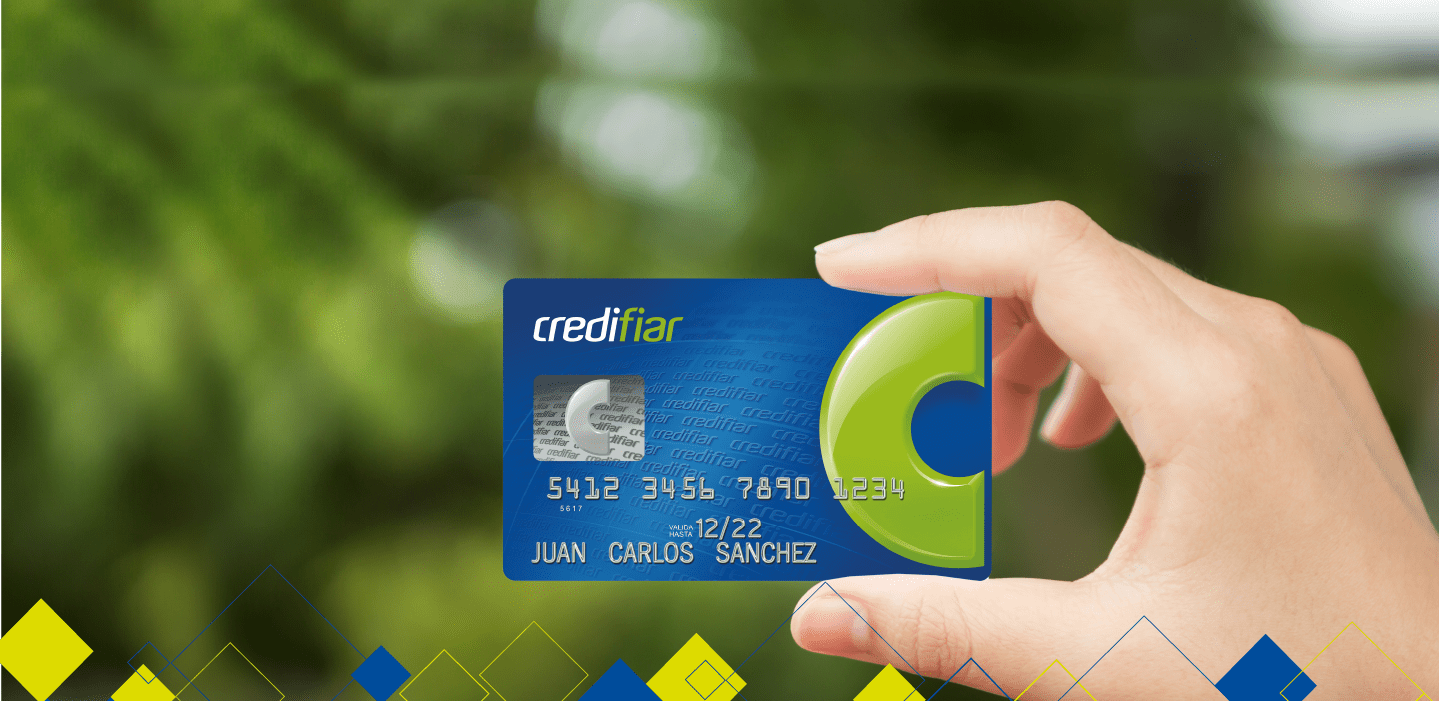
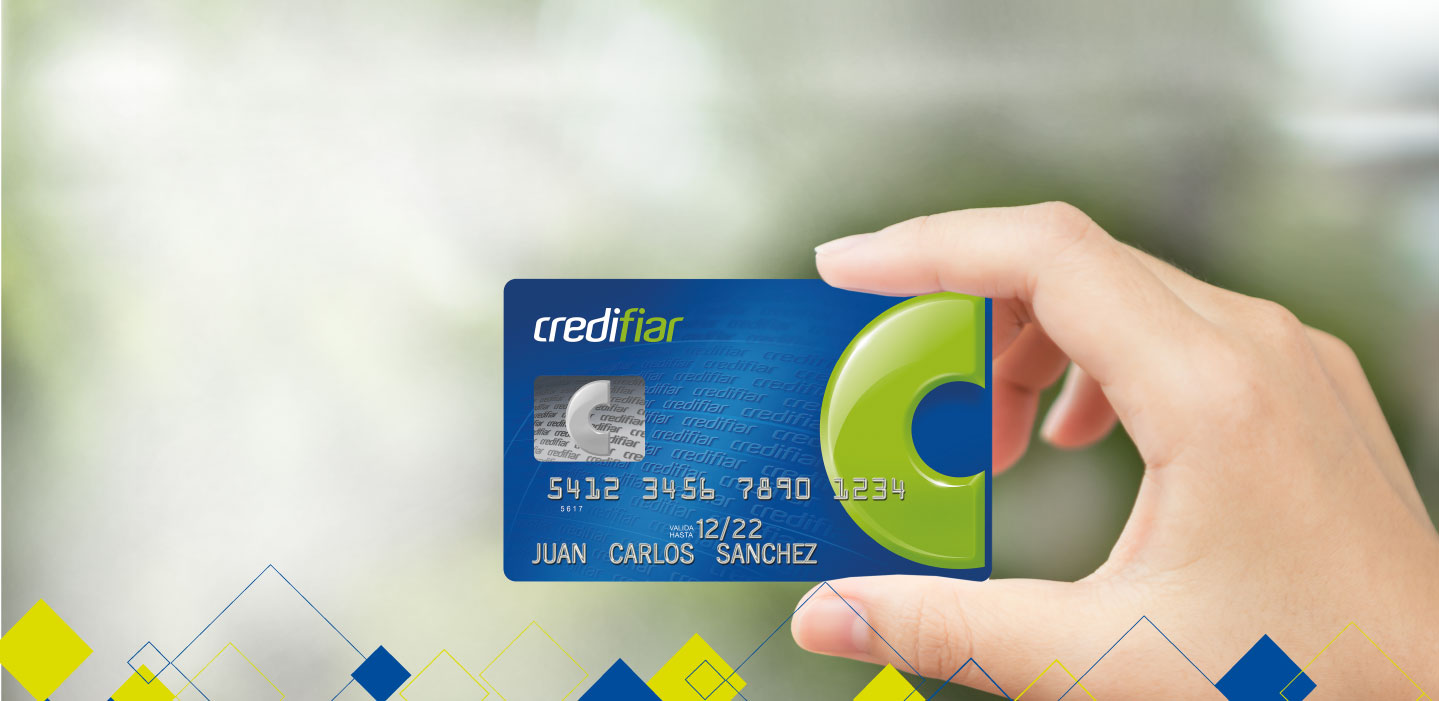
index al 90% verificar los modals y colocar las img promo faltantes y checkear textos vs docu

diff --git a/css/estilos.css b/css/estilos.css
@@ -210,21 +210,26 @@ body{
 .carousel-caption {
 	width: auto;
 	z-index: 10; 
-	color: #1B52A2; 
-	text-align: center;
+	color: #1B52A2;
 	top: 20%;
 	left: 10%;
-	bottom: auto; 
+	/*	text-align: center;
+	 bottom: auto;  */
+	text-align: start;
+	bottom: 150px;
 }
+
 
 .sintexto{
 	width: auto;
 	z-index: 10; 
 	color: #1B52A2; 
-	text-align: center;
 	top: 60%;
 	left: 10%;
-	bottom: auto; 
+	text-align: start;
+	bottom: 150px;
+	/* text-align: center;
+	bottom: auto;  */
 }
 
 /* .btn-carousel-caption */
@@ -235,6 +240,7 @@ body{
 	color: #1B52A2;
 	background-color: rgb(227, 252, 0);
 }
+
 
 .text-carousel-caption{
 	font-size: 1.7rem;
@@ -256,7 +262,7 @@ body{
 }
 .promociones .galeriaPromociones .contenedor-imagen{
 	margin-bottom: 40px;
-	max-height: 180px;
+	max-height: 300px;
 	overflow: hidden;
 }
 .promociones .galeriaPromociones .contenedor-imagen a{
@@ -267,11 +273,6 @@ body{
 	opacity: .3;
 }
 
-.carousel-caption{
-	/* color:  #1B52A2; */
-	text-align: start;
-	bottom: 150px;
-}
 
 .link-slider-index{
 	text-decoration: none;
@@ -282,6 +283,9 @@ body{
 	font-size: 3rem;
 }
 
+.subtitulo-slider{
+	font-size: 2.4rem;
+}
 /* VENTAJAS */
 
 .fondo-ventajas{
@@ -304,17 +308,17 @@ body{
 
 .card-title-ubicaciones{
 	padding: 0 0;
-	text-align: center;
-	color: black;
+	text-align: start;
+	color:#1B52A2 ;
 	font-family: 'credifiar';
-	font-weight: 300;
+	/* font-weight: 300; */
 }
 .card-text-ubicaciones{
 	padding: 0 0;
-	text-align: center;
-	color: black;
+	text-align: start;
+	color:#1B52A2 ;
 	font-family: 'credifiar';
-	font-weight: 300;
+	/* font-weight: 300; */
 }
 
 /* .tituloComercios{
@@ -642,13 +646,56 @@ background: url(../img/ingreso_cliente.jpg) no-repeat center;
 		color: #1B52A2;
 	}
 
-	/* .titulo-slider{
-		font-size: 1rem;
+	.titulo-slider{
+		font-size: 1.5rem;
+	}
+	.subtitulo-slider{
+		font-size: 1.5rem;
 	}
 
 	.carousel-caption{
-		/* color:  #1B52A2; 
+		width: auto;
+		z-index: 10; 
+		color: #1B52A2; 
 		text-align: start;
-		bottom: 50px;
-	} */
+		top: 0;
+		left: 0;
+		bottom: auto; 
+	}
+
+	.text-carousel-caption{
+		font-size: 1rem;
+		margin: 0%;
+	}
+
+	.sintexto{
+		width: auto;
+		z-index: 10; 
+		color: #1B52A2; 
+		top: 80%;
+		left: 5%;
+		text-align: start;
+		/* bottom: 150px; */
+		/* text-align: center; */
+		bottom: auto;
+	}
+
+	.card-title-ubicaciones{
+		padding: 0 0;
+		text-align: start;
+		color:#1B52A2 ;
+		font-family: 'credifiar';
+		font-weight: 900;
+	}
+	.card-text-ubicaciones{
+		padding: 0 0;
+		text-align: start;
+		color:#1B52A2 ;
+		font-family: 'credifiar';
+		font-weight: 900;
+	}
+
+	.card-border{
+		border: 3px solid;
+	}
 }

diff --git a/Vistas/index.php b/Vistas/index.php
@@ -6,10 +6,10 @@
 			<div class="carousel-inner alto p-0 m-0">	
 
 				<div class="carousel-item  active ">
-					<img src="../img/index/6.png" class="img-fluid d-sm-none"  alt="tarjeta-credifiar">
-					<img src="../img/index/Sliders-tarjeta-fondo.png" class="img-fluid d-none d-lg-block"  alt="tarjeta-credifiar">
+					<img src="../img/index/6.jpg" class="img-fluid d-sm-none"  alt="tarjeta-credifiar">
+					<img src="../img/index/1.png" class="img-fluid d-none d-lg-block"  alt="tarjeta-credifiar">
 				
-					<div class="carousel-caption col-md-6 d-none d-md-block">
+					<div class="carousel-caption col-md-6">
 						<h2 class="font-weight-bold titulo-slider ">Solicitá tu tarjeta CREDIFIAR</h2>
 						<p class="col-md-6 text-carousel-caption p-0" >Mínimos requisitos</p>
 						<p class="col-md-6 text-carousel-caption p-0" >Beneficios todo el año</p>
@@ -22,7 +22,7 @@
 					<img src="../img/index/7.png" class="img-fluid d-sm-none"  alt="...">
 					<img src="../img/index/2.png" class="img-fluid d-none d-lg-block"  alt="...">
 
-					<div class="carousel-caption col-md-6 d-none d-md-block">
+					<div class="carousel-caption col-md-6">
 						<h2 class="font-weight-bold titulo-slider">Solicitá tu tarjeta CREDIFIAR</h2>
 						<p class="col-md-6 text-carousel-caption p-0" >Mínimos requisitos</p>
 						<p class="col-md-6 text-carousel-caption p-0" >Beneficios todo el año</p>
@@ -34,7 +34,7 @@
 					<img src="../img/index/8.png" class="img-fluid d-sm-none"  alt="beneficios-tarjeta-credifiar">
 					<img src="../img/index/3.png" class="img-fluid d-none d-lg-block"  alt="beneficios-tarjeta-credifiar">
 
-					<div class="carousel-caption col-md-6 d-none d-md-block">
+					<div class="carousel-caption col-md-6">
 						<h2 class="font-weight-bold titulo-slider">Conocé los beneficios de Tarjeta Credifiar</h2>
 						<p class="col-md-6 text-carousel-caption p-0" >DESCUENTOS</p>
 						<p class="col-md-6 text-carousel-caption p-0" >CUOTAS SIN INTERÉS</p>
@@ -47,7 +47,7 @@
 				<div class="carousel-item   ">
 					<img src="../img/index/9.png" class="img-fluid d-sm-none"  alt="prestamos-en-efectivo">
 					<img src="../img/index/4.png" class="img-fluid d-none d-lg-block"  alt="prestamos-en-efectivo">
-					<div class="carousel-caption col-md-6 d-none d-md-block sintexto">
+					<div class="carousel-caption col-md-6 sintexto">
 						<a class="btn pildora-amarilla my-md-2 p-md-2" href="prestamos_form.php" role="button">SOLICITALO AQUÍ</a>		
 					</div>
 				</div>
@@ -56,9 +56,9 @@
 					<img src="../img/index/10.png" class="img-fluid d-sm-none"  alt="tarjeta-credifiar-argencard">
 					<img src="../img/index/5.png" class="img-fluid d-none d-lg-block"  alt="tarjeta-credifiar-argencard">
 
-					<div class="carousel-caption col-md-6 d-none d-md-block">
+					<div class="carousel-caption col-md-6">
 						<h2 class="font-weight-bold titulo-slider">Nueva tarjeta</h2>
-						<h2 class="font-weight-bold">CREDIFIAR – ARGENCARD</h2>
+						<h2 class="font-weight-bold subtitulo-slider">CREDIFIAR – ARGENCARD</h2>
 						<p class="col-md-6 text-carousel-caption p-0" >Podés comprar en más de 300.000 comercios en todo el país!</p>
 						<a class="btn pildora-amarilla my-md-2 p-md-2" href="tarjeta.php#solicita_tarjeta" role="button">SOLICITALA AQUÍ</a>	
 					</div>
@@ -146,13 +146,13 @@
 						
 						<div class="contenedor-imagen col-md-6">
 							<a href="#" data-toggle="modal" data-target="#exampleModal">
-								<img src="../img/index/Promo_1.png" class="img-fluid imagen" alt="">
+								<img src="../img/index/PromoComercio_texto.png" class="img-fluid imagen" alt="">
 							</a>
 						</div>
 
 						<div class="contenedor-imagen col-md-6">
 							<a href="#" data-toggle="modal" data-target="#exampleModal">
-								<img src="../img/index/Promo_2.png" class="img-fluid imagen" alt="">
+								<img src="../img/index/PromoSuper_texto.png" class="img-fluid imagen" alt="">
 							</a>
 						</div>
 						
@@ -219,67 +219,73 @@
 				<div class="card-deck ">
 
 					<div class="col-12 mb-sm-3">
-						<div class="card pb-4">
+						<div class="card pb-4  card-border">
 							<div class="card-body" >
 								<h5 class="card-title-ubicaciones font-weight-bold"> Casa Central</h5>
-								<p class="card-text-ubicaciones">1ra Junta 2675</p>
-								<p class="card-text-ubicaciones">3000 - Santa Fe</p>
-								<p class="card-text-ubicaciones">Tel: 0342 - 4579300</p>		
+								<p class="card-text-ubicaciones p-0 m-0">1ra Junta 2675</p>
+								<p class="card-text-ubicaciones p-0 m-0">3000 - Santa Fe</p>
+								<p class="card-text-ubicaciones p-0 m-0">Lunes a Viernes de 8 a 16 hs</p>
+								<p class="card-text-ubicaciones p-0 m-0 p-0 m-0">Sabado de 8 a 12 hs (2 Sabados por Mes)</p>
+
 							</div>
 							<div class="card-footer-ubicaciones text-muted text-center" >
-								<a href="https://goo.gl/maps/jenAKFo9fFkhk82y6" class="btn btn-primary" target="_blank">Ubicación</a>
+								<a href="https://goo.gl/maps/jenAKFo9fFkhk82y6" class="btn pildora-amarilla" target="_blank">Ubicación</a>
 							</div>
 						</div>
 					</div>
 					<div class="col-12 mb-sm-3">
-						<div class="card pb-4" >
+						<div class="card pb-4 card-border" >
 								<div class="card-body" >
 								<h5 class="card-title-ubicaciones font-weight-bold">Sucursal Aristóbulo</h5>
-								<p class="card-text-ubicaciones">Av. Aristobulo del Valle 6857</p>
-								<p class="card-text-ubicaciones">3000 - Santa Fe</p>
-								<p class="card-text-ubicaciones">Tel: 0342 - 4579330</p>
+								<p class="card-text-ubicaciones p-0 m-0">Av. Aristobulo del Valle 6857</p>
+								<p class="card-text-ubicaciones p-0 m-0">3000 - Santa Fe</p>
+								<p class="card-text-ubicaciones p-0 m-0">Lunes a Viernes de 8 a 16 hs</p>
+								<p class="card-text-ubicaciones p-0 m-0">Sabado de 8 a 12 hs</p>
 							</div>
 							<div class="card-footer-ubicaciones text-muted text-center" >
-								<a href="https://goo.gl/maps/TT1Ggj52qVwvfC3b6" class="btn btn-primary" target="_blank">Ubicación</a>
+								<a href="https://goo.gl/maps/TT1Ggj52qVwvfC3b6" class="btn pildora-amarilla" target="_blank">Ubicación</a>
 							</div>
 						</div>
 					</div>
 					<div class="col-12 mb-sm-3">
-						<div class="card pb-4" >
+						<div class="card pb-4 card-border" >
 							<div class="card-body" >
 								<h5 class="card-title-ubicaciones font-weight-bold">Sucursal Esperanza</h5>
-								<p class="card-text-ubicaciones">25 de Mayo 1414</p>
-								<p class="card-text-ubicaciones">3080 - Esperanza</p>
-								<p class="card-text-ubicaciones">Tel: 03496-423996</p>
+								<p class="card-text-ubicaciones p-0 m-0">25 de Mayo 1414</p>
+								<p class="card-text-ubicaciones p-0 m-0">3080 - Esperanza</p>
+								<p class="card-text-ubicaciones p-0 m-0">Lunes a Viernes de 8 a 16 hs</p>
+								<p class="card-text-ubicaciones p-0 m-0">Sabado de 8 a 12 hs</p>
 							</div>
 							<div class="card-footer-ubicaciones text-muted text-center" >
-								<a href="https://goo.gl/maps/qWwRQoseFSvujFNT8" class="btn btn-primary" target="_blank">Ubicación</a>
+								<a href="https://goo.gl/maps/qWwRQoseFSvujFNT8" class="btn pildora-amarilla" target="_blank">Ubicación</a>
 							</div>
 						</div>
 					</div>
 					<div class="col-12 mb-sm-3">
-						<div class="card pb-4" >
+						<div class="card pb-4 card-border" >
 							<div class="card-body" >
 								<h5 class="card-title-ubicaciones font-weight-bold">Sucursal Parana</h5>
-								<p class="card-text-ubicaciones">Peru 67</p>
-								<p class="card-text-ubicaciones">3100 - Parana</p>
-								<p class="card-text-ubicaciones">Tel: 0342 - 155091084</p>
+								<p class="card-text-ubicaciones p-0 m-0">Peru 67</p>
+								<p class="card-text-ubicaciones p-0 m-0">3100 - Parana</p>
+								<p class="card-text-ubicaciones p-0 m-0">Lunes a Viernes de 11 a 18 hs</p>
+								<p class="card-text-ubicaciones p-0 m-0">Sabado de 9 a 13 hs</p>
 							</div>
 							<div class="card-footer-ubicaciones text-muted text-center" >
-								<a href="https://goo.gl/maps/rjLNoPHPm34Am4Yv6" class="btn btn-primary" target="_blank">Ubicación</a>
+								<a href="https://goo.gl/maps/rjLNoPHPm34Am4Yv6" class="btn pildora-amarilla" target="_blank">Ubicación</a>
 							</div>
 						</div>
 					</div>
 					<div class="col-12 mb-sm-3">
-						<div class="card pb-4" >
+						<div class="card pb-4 card-border" >
 							<div class="card-body" >
-								<h5 class="card-title-ubicaciones ">Sucursal Ceres</h5>
-								<div><a class="">Sucursal Ceres:</a> Av Mayo 286 - Ceres</div>
-								<div>Lunes a Viernes de 8 a 16 hs.</div>
-								<div>Sabado de 8 a 12 hs.</div>
+								<h5 class="card-title-ubicaciones font-weight-bold">Sucursal Ceres</h5>
+								<p class="card-text-ubicaciones p-0 m-0">Av Mayo 286</p>
+								<p class="card-text-ubicaciones p-0 m-0">2340 - Ceres</p>
+								<p class="card-text-ubicaciones p-0 m-0">Lunes a Viernes de 8 a 16 hs.</p>
+								<p class="card-text-ubicaciones p-0 m-0">Sabado de 8 a 12 hs.</p>
 							</div>
 							<div class="card-footer-ubicaciones text-muted  text-center" >
-								<a href="https://goo.gl/maps/D3acKdh8hVpoPPtT8" class="btn btn-primary" target="_blank">Ubicación</a>
+								<a href="https://goo.gl/maps/D3acKdh8hVpoPPtT8" class="btn pildora-amarilla" target="_blank">Ubicación</a>
 							</div>
 						</div>	
 					</div>				

diff --git a/Vistas/empresa.php b/Vistas/empresa.php
@@ -16,21 +16,6 @@
 			</div>
 		</div>
 
-		<!-- <div class="container alto d-flex"> -->
-			<!-- <div class="row align-content-center justify-content-center">	 -->
-		<div class="container-fluid alto-trabaja  d-md-flex justify-content-center  " id="contadorEmpresa">
-			<div class="row align-content-center m-md-0 p-md-0 ">
-				<div class="col-12 m-md-0 p-md-0"  id="numeros-animados">
-					<h3></h3>
-					<div id="animacion-numeros" class="d-md-flex"> 
-						<div class="counter col-md-3 mr-md-3 text-center"><p class="numeros-grandes">0</p><h3 class="numeritos">Localidades</h3></div>
-						<div class="counter col-md-3 mr-md-3 text-center"><p class="numeros-grandes">0</p><h3 class="numeritos">Comercios</h3></div>
-						<div class="counter col-md-3 mr-md-3 text-center"><p class="numeros-grandes">0</p><h3 class="numeritos">Sucursales</h3></div>
-						<div class="counter col-md-3 mr-md-3 text-center"><p class="numeros-grandes">0</p><h3 class="numeritos">Años</h3></div>
-					</div>
-				</div>
-			</div>
-		</div>	
 		
 <?php
 	include ("footer.php");
